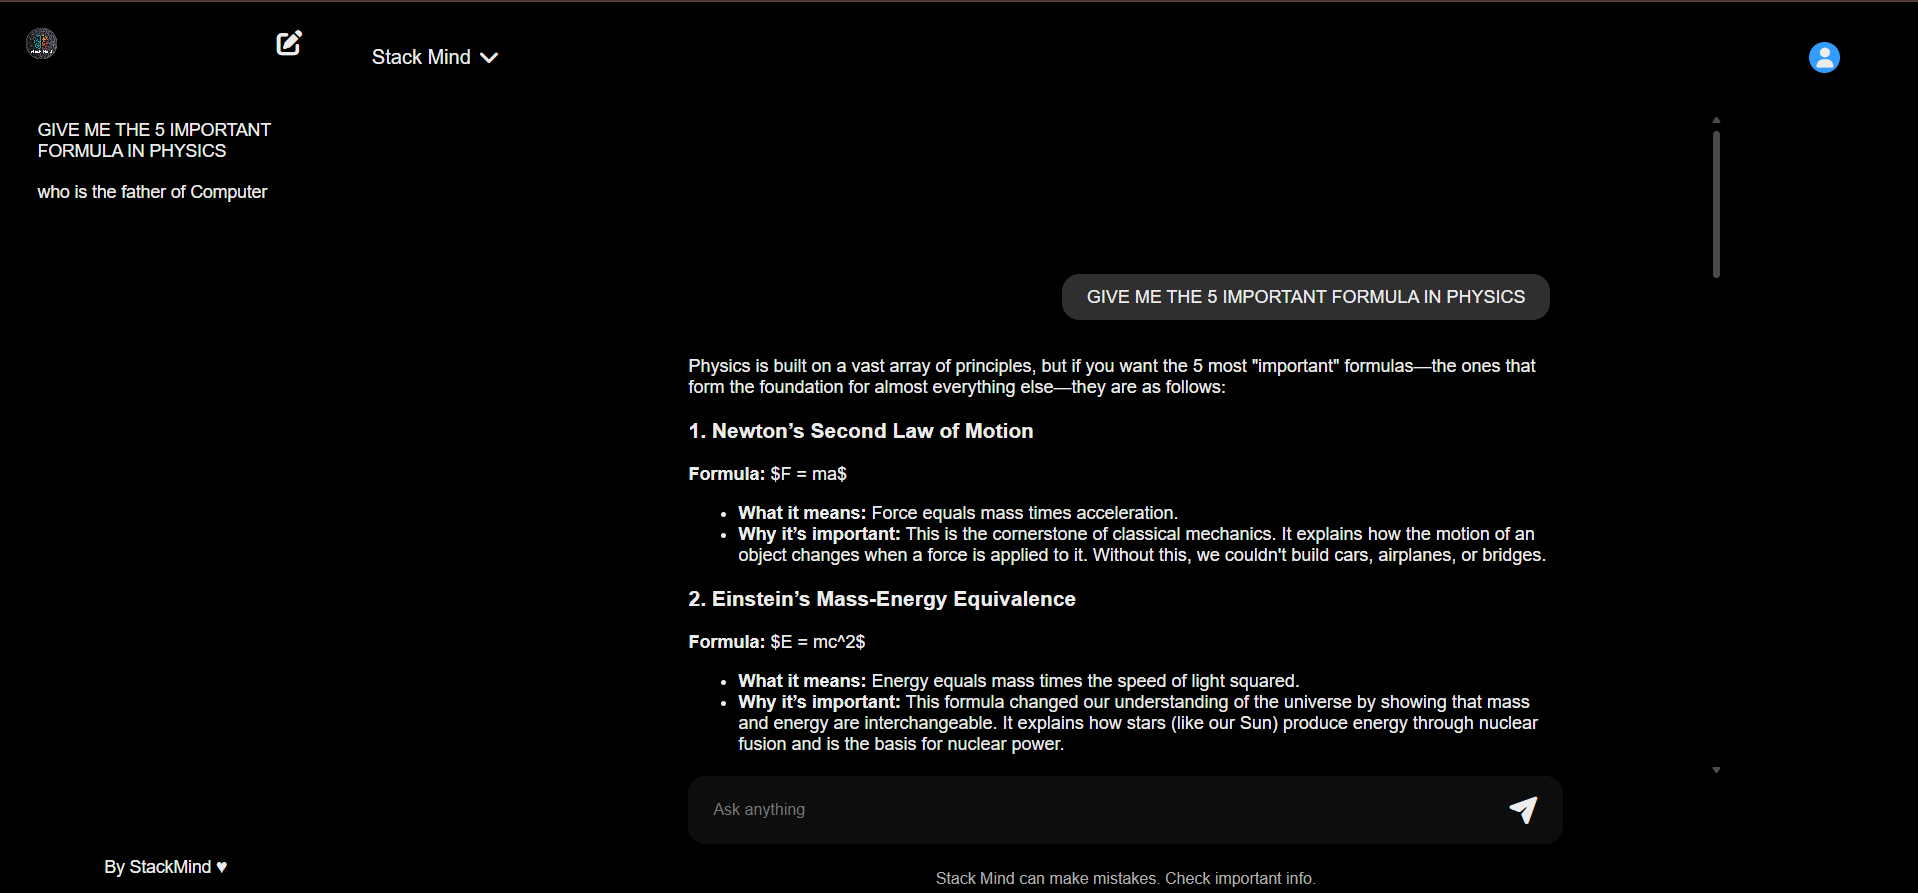
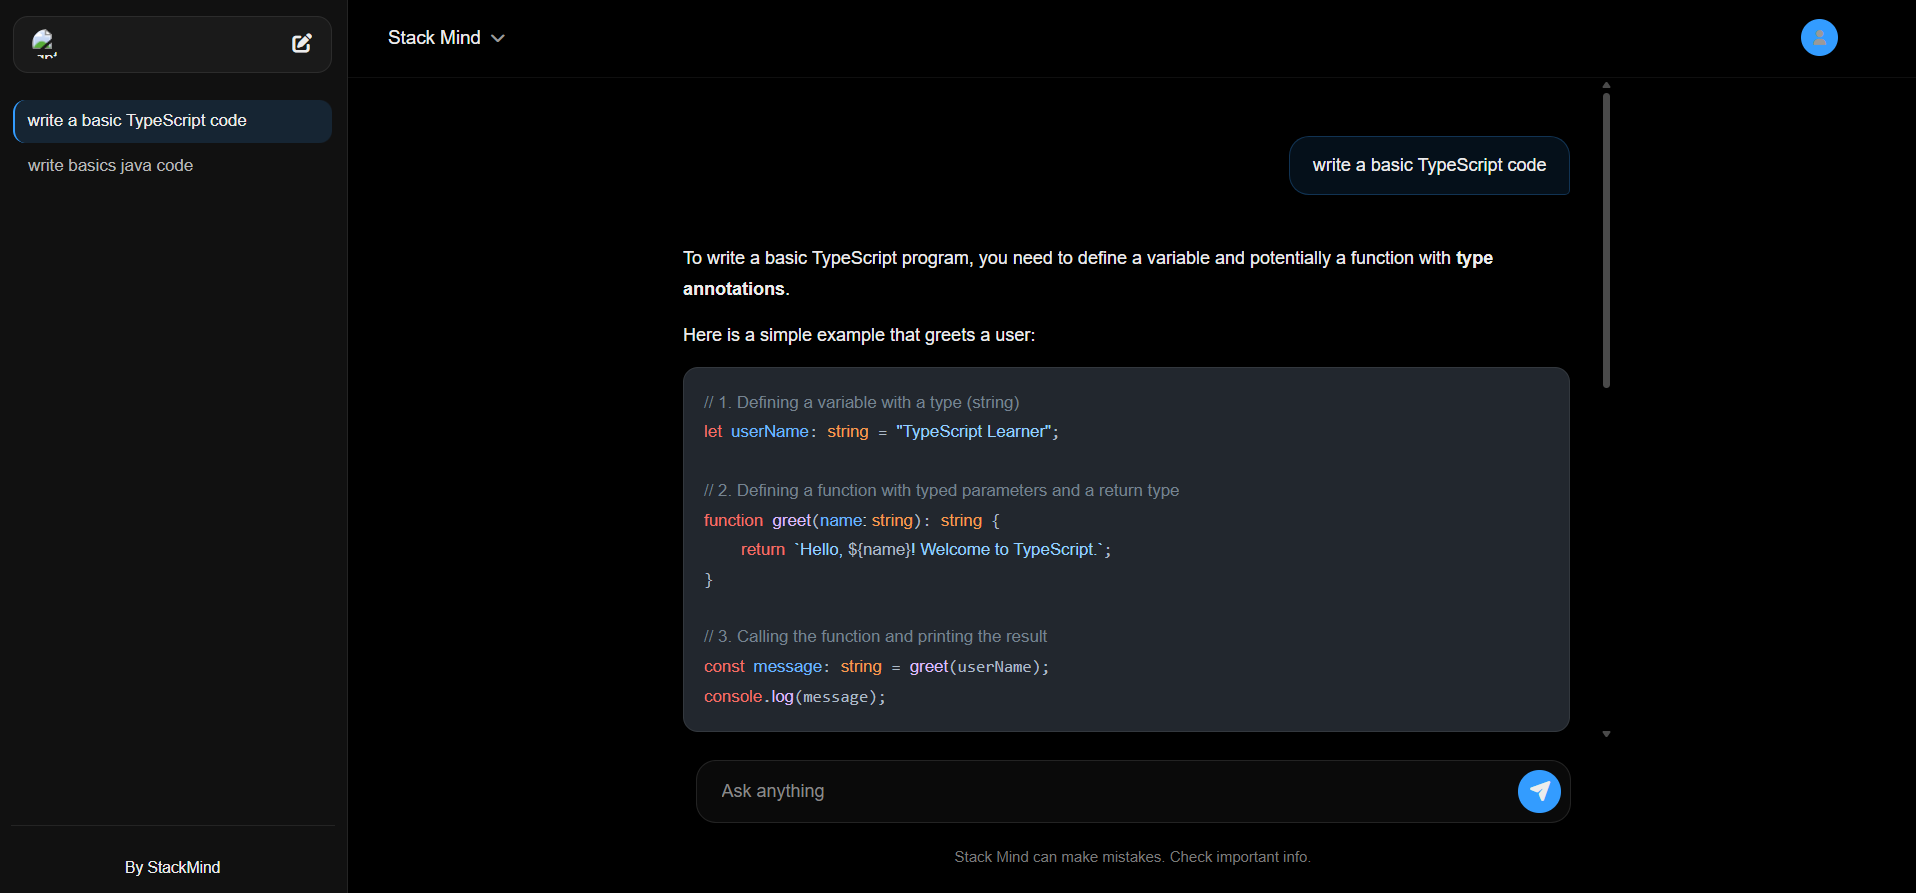
Update Readme

diff --git a/README.md b/README.md
@@ -13,6 +13,8 @@ A production-grade, thread-based conversational AI chatbot built from scratch wi
 ![Status](https://img.shields.io/badge/Status-Production%20Ready-success?style=for-the-badge)
 ![License](https://img.shields.io/badge/License-MIT-blue?style=for-the-badge)
 
+### 🔗 [**Live Demo →**](https://stack-mind-dusky.vercel.app/)
+
 </div>
 
 ---